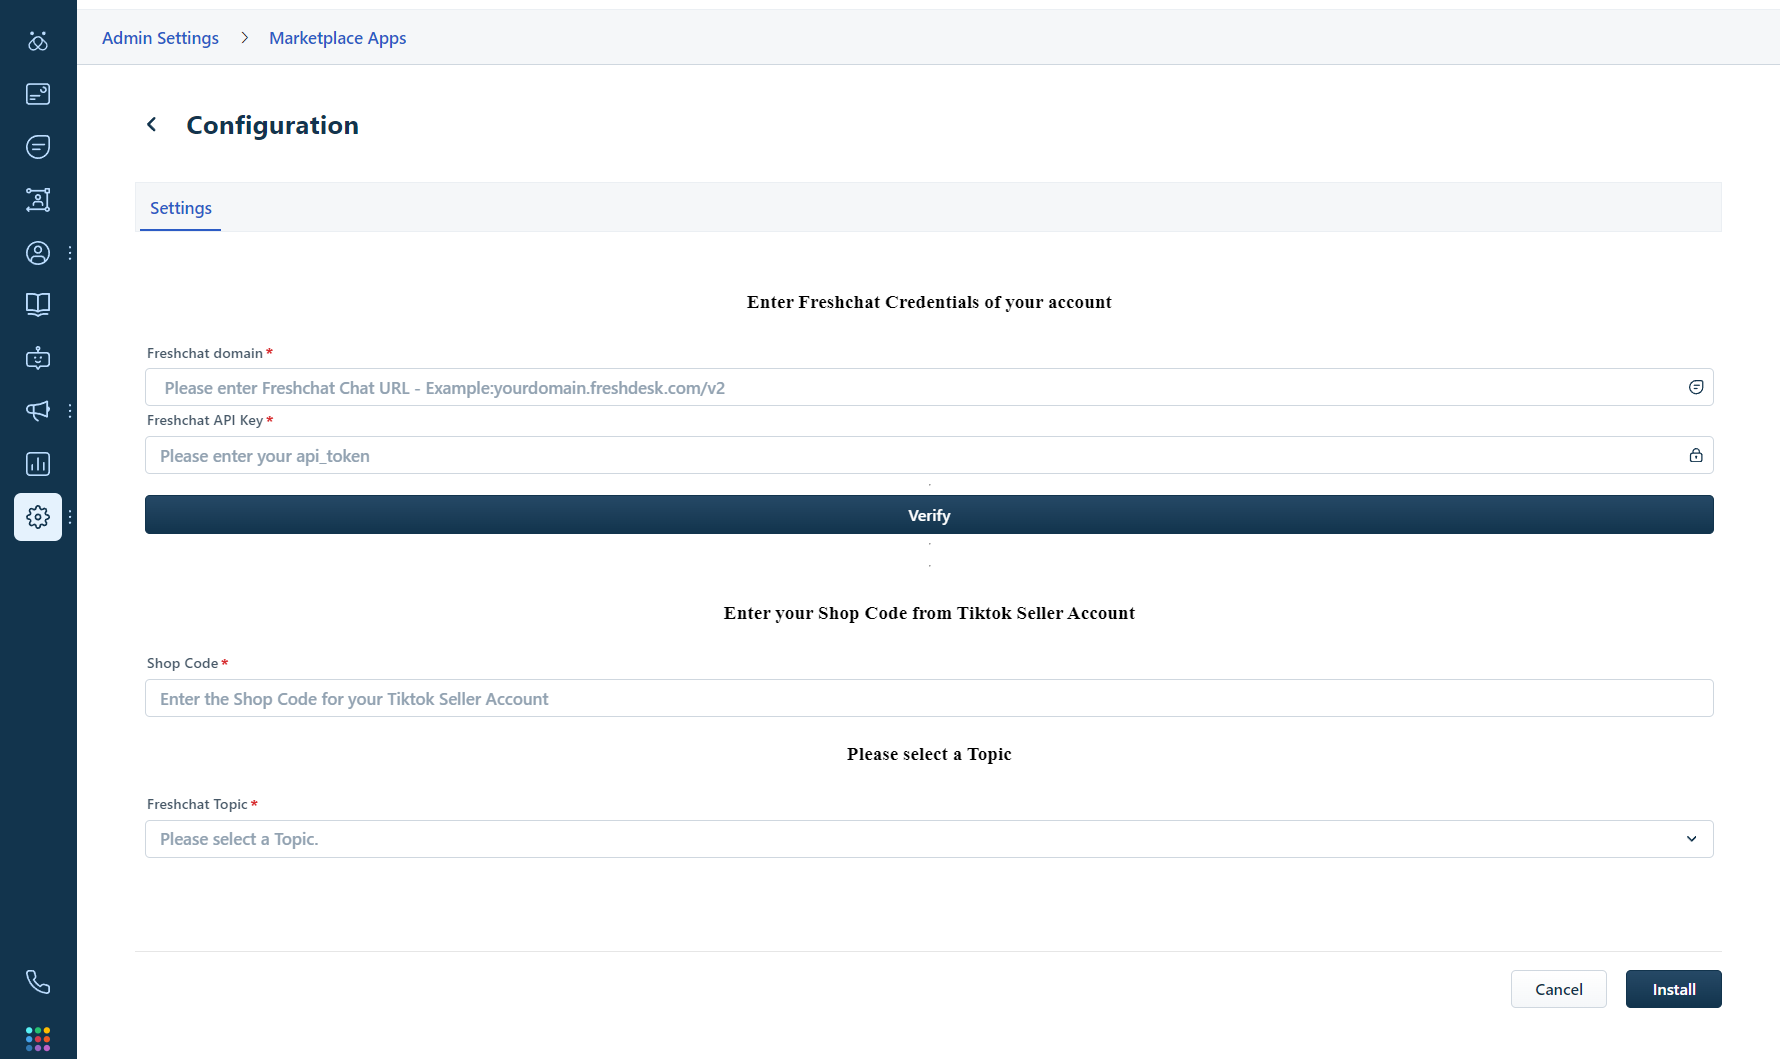
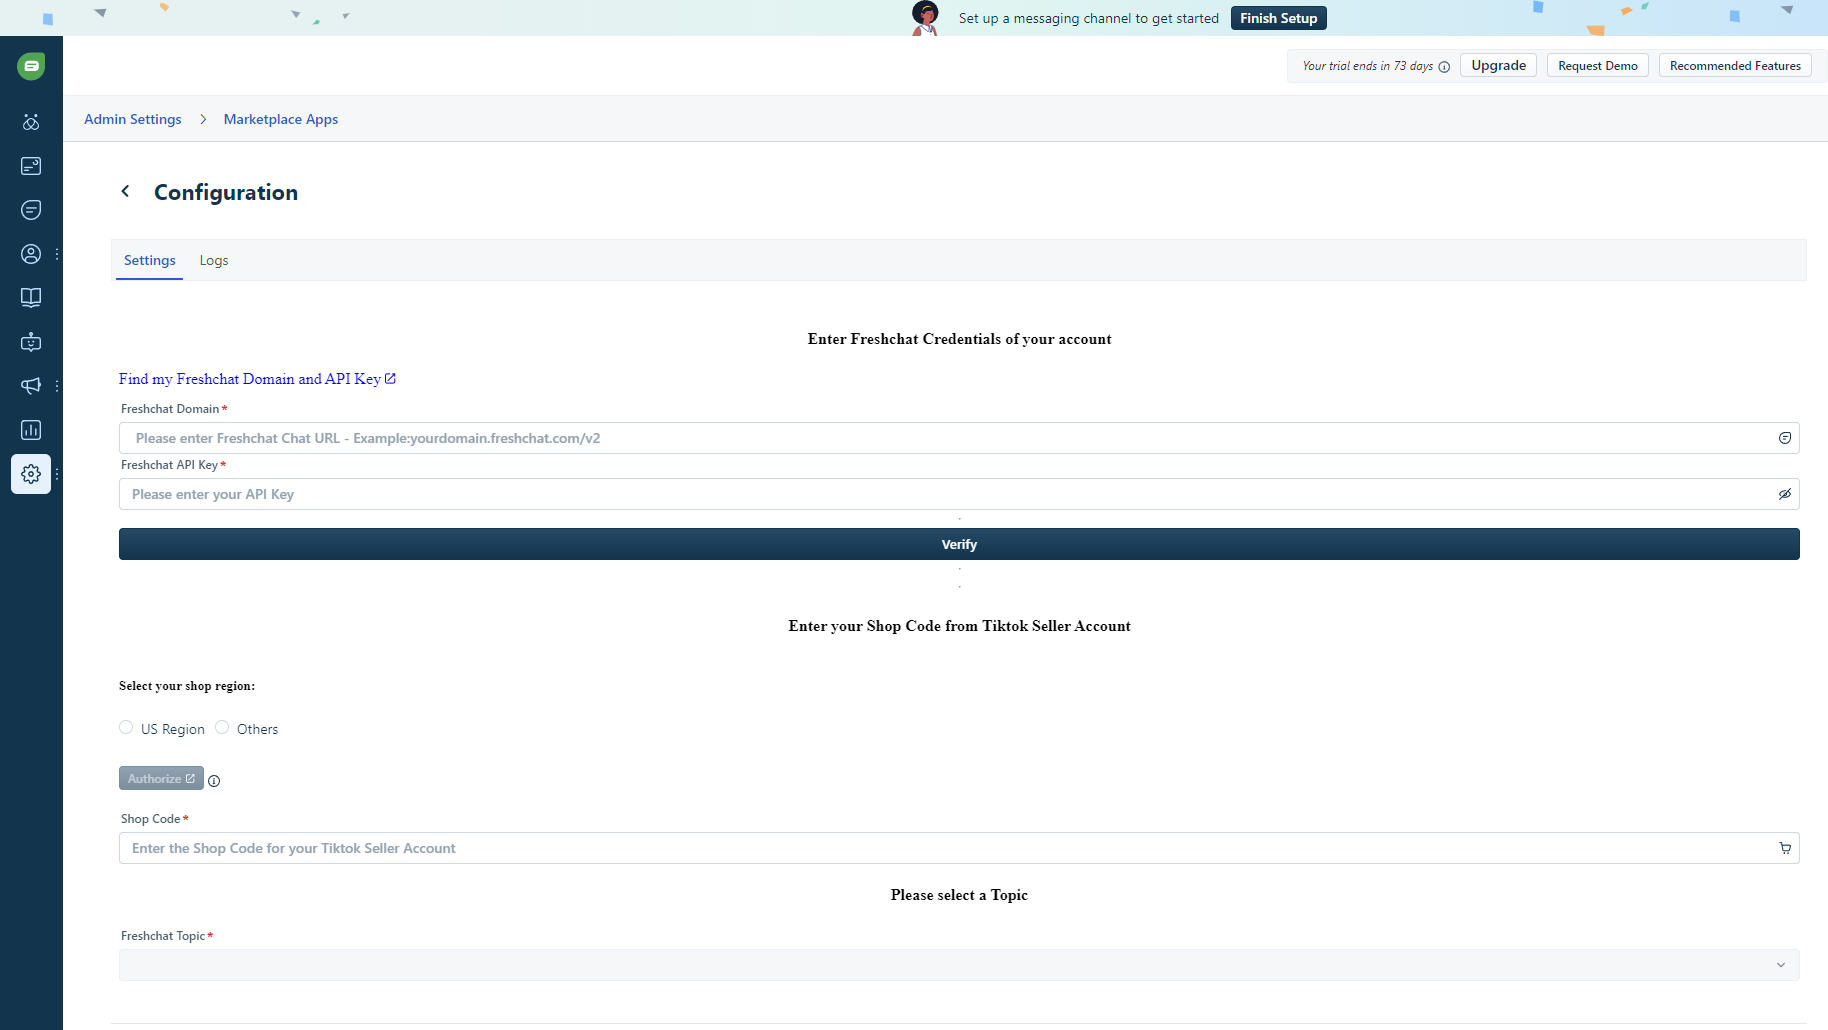
modified for the latest app

diff --git a/docs/app-install.md b/docs/app-install.md
@@ -24,7 +24,7 @@ In the Marketplace Apps page search for our app "Tiktok Seller Chat" in the sear
 
 #### Step 4: Copy the  credientals.
 
-From the "Admin Settings" page, navigate to your login logo, which is in the top right corner and select the "Settings" option. In that settings page select the "Api Settings" tab and copy only the credientals which is under the "API DETAILS FOR CHAT" heading.
+Click the link phrase "Find my Freshchat Domain and API Key", which will redirect you to your API settings page.Copy your Freshchat related credientals i.e. under the heading "API details for chat". Copy both "Your chat URL" and "Your API Key".
 
 <img src="./freshchat_app_install_images/4-api_settings_page.png" alt="api_settings_page">
 
@@ -40,7 +40,15 @@ If the credientals are appropriate, you will receive a "Verified Successfully" n
 
 ##### NOTE: Only proceed to the next step if you recieve the "Verified Successfully" notification.
 
-#### Step 7: Fill in the Tiktok Seller Chat Shop Code.
+#### Step 7: Authorize your shop.
+
+If you haven't authorized your shop for our application's service before, follow this step, else skip this. 
+
+If your shop is based in US region, select the "US Region" option, for other Asian or European Region based shops, select the "Others" option. Once selected your region click the "Authorize" button and follow the authorization process by clicking the link below.
+
+[Service Authorization](service-authorization.md)
+
+#### Step 8: Fill in the Tiktok Seller Chat Shop Code.
 
 Login to your Tiktok Seller Account and navigate to your shop name in the top right corner and copy the shop code and paste it in the "Tiktok Seller Shop Code".
 

diff --git a/docs/service-authorization.md b/docs/service-authorization.md
@@ -1,12 +1,18 @@
  # Tiktok Seller Account Shop Authorization
 
-In this guide, we will walk you through the authorization process of our service.
+In this guide, we will walk you through the authorization process for our chat service.
 
-#### Step 1: Open the link your browser.
+#### Step 1: Authorization Web page.
 
-In the address bar, enter the given URL and ensure that the browser window resembles the image below:
+After navigating to the authorization page you might get a web page or a pop-up which resembles to the image given below:
+
+For European and Asian region based shops:
 
 <img src="./tiktok_seller_authorize_images/1-select_account_type.png" alt="select_account_type">
+
+FOr US region based shops:
+
+<img src="./tiktok_seller_authorize_images/us-region-shop.png" alt="us_region_shop">
 
 #### Step 2: Select your shop region. 
 
@@ -32,7 +38,7 @@ After authorizing you will be redirected to a static page. Wait for a few second
 
 <img src="./tiktok_seller_authorize_images/5-static_redirect_authorze_screen.png" alt="static_redirect_authorze_screen">
 
-#### Step 6: Copy the complete browser URL link:
+#### Step 6: Authorization complete:
 
 Finally you will be redirected to a Webpage page. Wait for around 05 seconds.
 <img src="./tiktok_seller_authorize_images/6-final_screen.png" alt="final_screen">

diff --git a/docs/_sidebar.md b/docs/_sidebar.md
@@ -1,3 +1,3 @@
 - [Home](home.md)
-- [Service Authorization](service-authorization.md)
 - [Freshchat-Tiktok Seller Chat App Install](app-install.md)
+- [Service Authorization](service-authorization.md)
